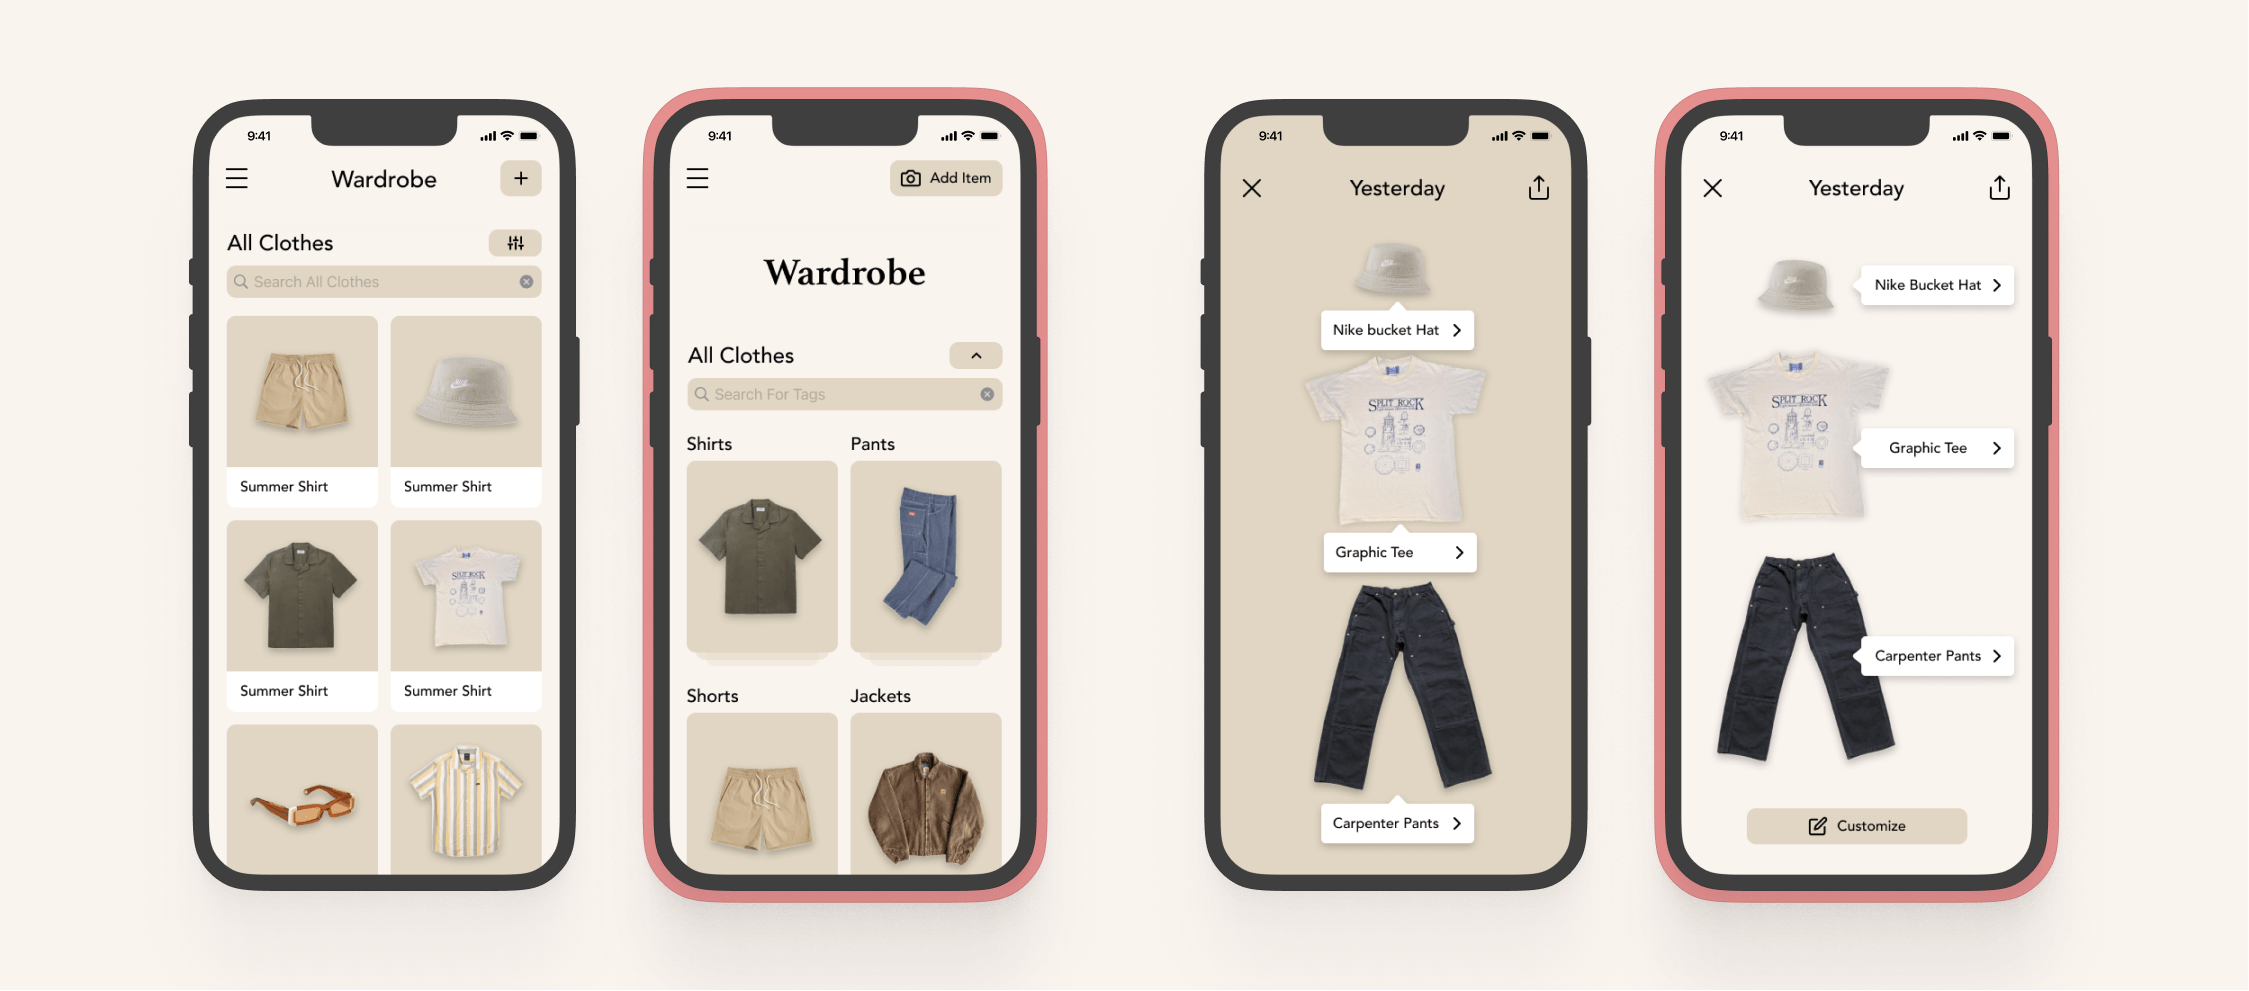
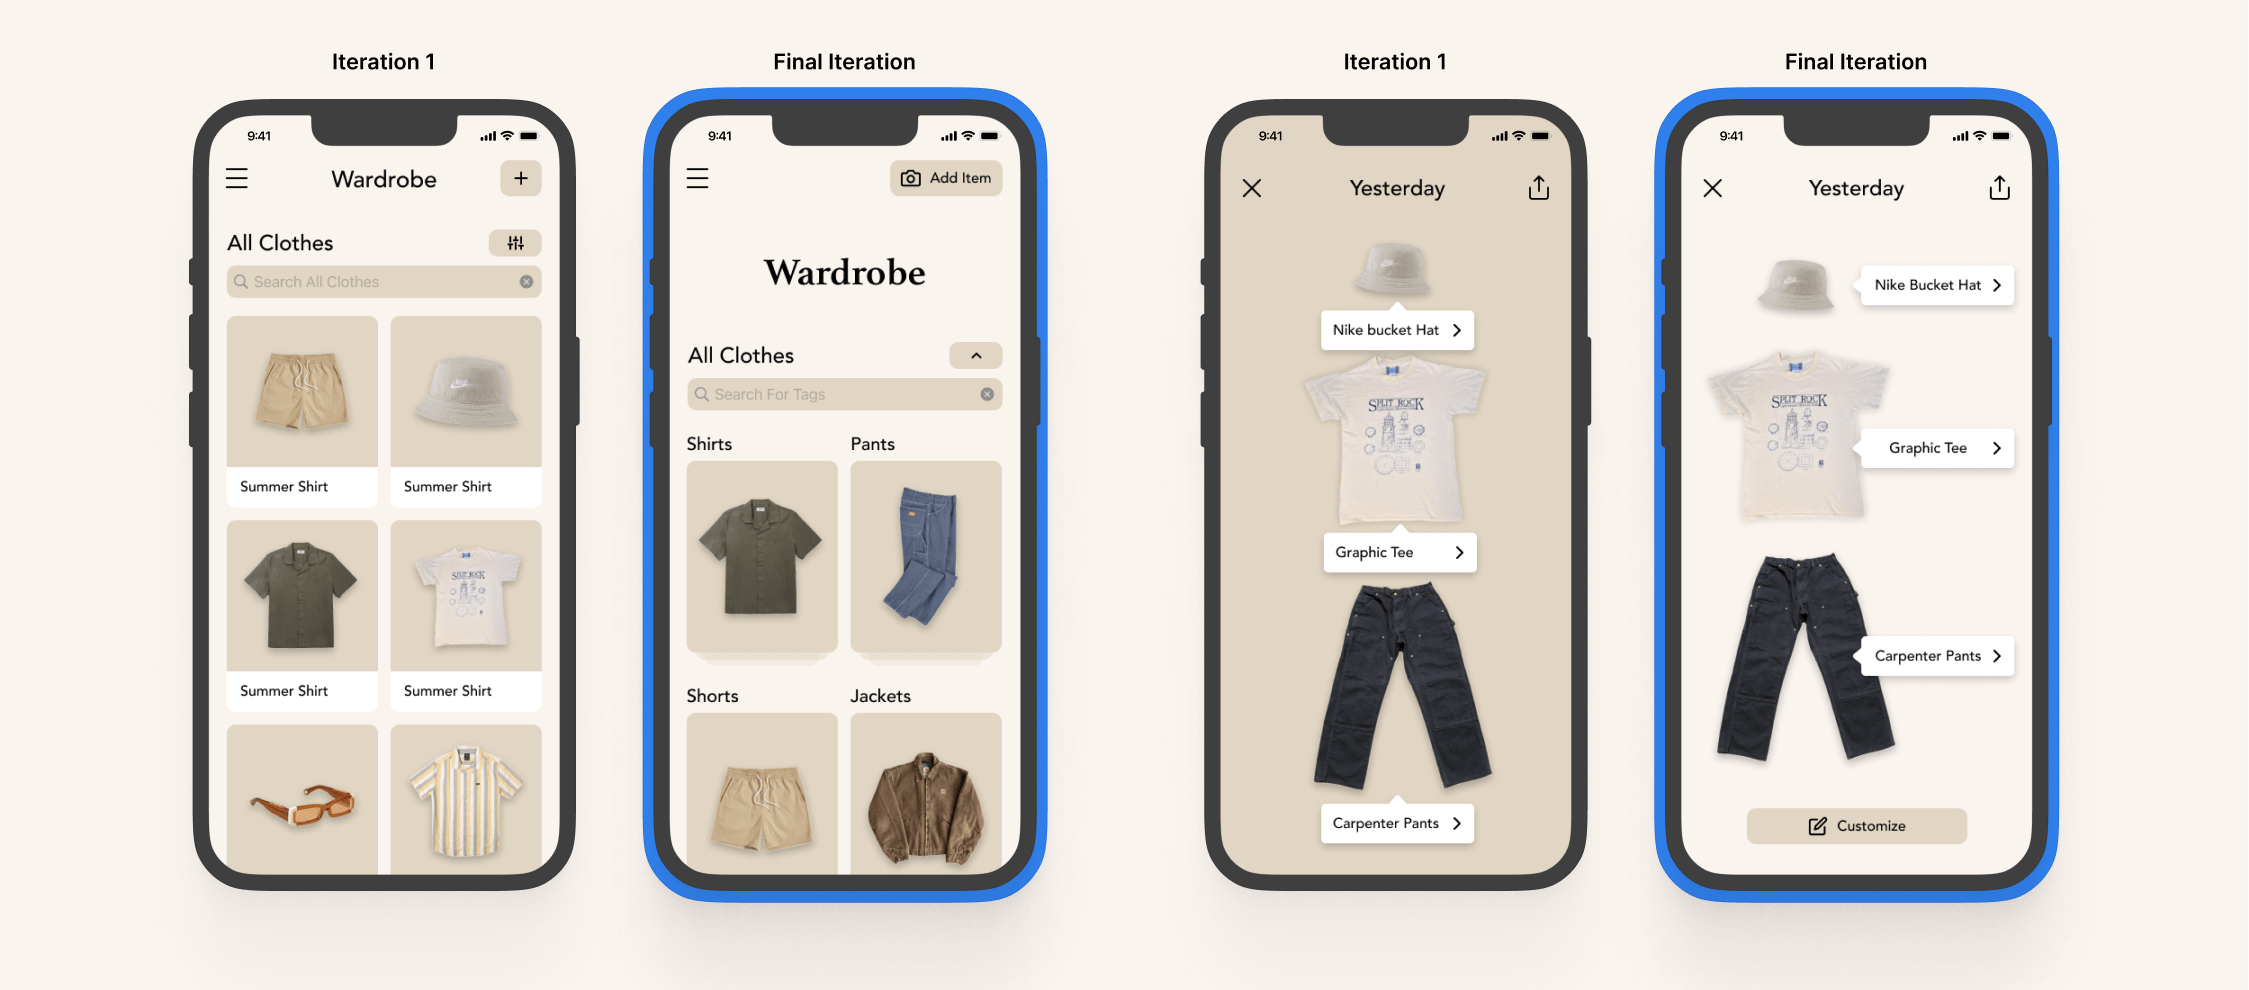
Tailored Improvements
Switched images to webp
improved iterations section

diff --git a/tailored.html b/tailored.html
@@ -19,8 +19,8 @@
       </div>
       <div id="project-content">
         <picture>
-          <source media="(min-width:700px)" srcset="assets/taylored/banner.png">
-          <img id="project-headerpicture" src="assets/taylored/banner.png" alt="">
+          <source media="(min-width:700px)" srcset="assets/taylored/banner.webp">
+          <img id="project-headerpicture" src="assets/taylored/banner.webp" alt="">
         </picture>
         <div id="project-header">Tailored</div>
         <div id="project-type">App Design</div>
@@ -35,8 +35,8 @@
         <div class="project-section">
           <div class="project-section-header">Brainstorming</div>
           <picture>
-            <source media="(min-width:700px)" srcset="assets/taylored/TailoredSketches.png">
-            <img class="project-sectionpicture" src="assets/taylored/TailoredSketches.png" alt="">
+            <source media="(min-width:700px)" srcset="assets/taylored/TailoredSketches.webp">
+            <img class="project-sectionpicture" src="assets/taylored/TailoredSketches.webp" alt="">
           </picture>
         </div>
         <div class="project-section beigeback">
@@ -49,28 +49,29 @@
         <div class="project-section">
           <div class="project-section-header">Design Iterations</div>
           <div class="project-subsection">
+            <div class="project-section-description" style="margin-bottom: 60px; margin-top: -30px;">I went through two iterations of user testing but having a handful of people run through a basic figma prototype of the application. This allowed me to gather great feedback on the usability and flow of the different sections and greatly improve their functionality.</div>
             <div class="project-section-subheader topsubheader">Daily Fit</div>
             <picture>
-              <source media="(min-width:700px)" srcset="assets/taylored/home_iterate.png">
-              <img class="project-sectionpicture" src="assets/taylored/home_iterate.png" alt="">
+              <source media="(min-width:700px)" srcset="assets/taylored/home_iterate.webp">
+              <img class="project-sectionpicture" src="assets/taylored/home_iterate.webp" alt="">
             </picture>
-            <div class="project-section-description">When first designing the Today Page, the daily outfit was directly incorporated and editable from that main page. This felt very cluttered and made the Today Page feel less concrete. I decided to make it a separate page that you could easily pop into from the main page but it now had the feeling of being very bare-bones with a lot of lacking features. Since this was the "Daily Fit" that would be recommended by the app, the general user would most likely want to heavily customize it. I settled on a page where that made it super easy to add and remove items as well as easily access the items already added. I also made it easy to share the daily fit and see when it's published since the app revolves around the idea of "share what you wear" on that specific day.</div>
+            <div class="project-section-description">When first designing the Today Page, the daily outfit was directly incorporated and editable from that main page. Users felt that this home page was very cluttered and distracted from the social component, where you could view your friends' fits for that day underneath. I decided to make it a separate page that you could easily pop into from the main page. In the second round of testing, users liked the separation and having a separate area to edit the outfit but with it being a whole separate page, now felt like it could include more features. Since this was the "Daily Fit'' that would be recommended by the app, the general user would most likely want to heavily customize it. I therefore settled on a page where that made it super easy to add and remove items as well as easily identify and access the items already added. I also made it easy to share the daily fit and see when it's published since the app revolves around the idea of "share what you wear" on that specific day.</div>
           </div>
           <div class="project-subsection">
             <div class="project-section-subheader">Figuring Out Categories</div>
             <picture>
-              <source media="(min-width:700px)" srcset="assets/taylored/fit_iterate.png">
-              <img class="project-sectionpicture" src="assets/taylored/fit_iterate.png" alt="">
+              <source media="(min-width:700px)" srcset="assets/taylored/fit_iterate.webp">
+              <img class="project-sectionpicture" src="assets/taylored/fit_iterate.webp" alt="">
             </picture>
-            <div class="project-section-description">The Fits Page needed to catalog and sort all of the outfits users wanted to create. I started out by having all the user-created categories in a grid and I placed the category name above to allow users to differentiate between the categories and the actual clothing items (which you'll see down below). I still needed a way to differentiate them more so I added a cascading effect to the background to make it clear it's a grouping of many different things. The Public Fits category needed to be emphasized since it isn't just another basic category and the fits in there are public. I decided to highlight that category since it acts as the user's "profile" and have it occupy the two columns and emphasize that the other categories were private.</div>
+            <div class="project-section-description">The Fits Page needed to catalog and sort all of the outfits users wanted to create. I started out by having all the user-created categories in a grid and I placed the category name above to allow users to differentiate between the categories and the actual clothing items (which you'll see down below). Users felt like there needed to be a way to differentiate them more so I added a cascading effect to the background to make it clear it's a grouping of many different things. There was some confusion around the "Public Fits" category vs. the others and so I decided to emphasize it since it isn't just another basic category because it groups all the outfits that are public. I decided to highlight that category since it acts as the user's "profile" for their outfits.</div>
           </div>
           <div class="project-subsection">
             <div class="project-section-subheader">Wardrobe Iterations</div>
             <picture>
-              <source media="(min-width:700px)" srcset="assets/taylored/wardrobe_iterate.png">
-              <img class="project-sectionpicture" src="assets/taylored/wardrobe_iterate.png" alt="">
+              <source media="(min-width:700px)" srcset="assets/taylored/wardrobe_iterate.webp">
+              <img class="project-sectionpicture" src="assets/taylored/wardrobe_iterate.webp" alt="">
             </picture>
-            <div class="project-section-description">The original Wardrobe Page was just a huge grouping of all the clothing items and was mainly there as the page to add new items. I wanted to make the page into something that users would actually enjoy browsing and so I switched to using clothing categories inspired by the Fits Page but these categories would be basic and just help with finding specific items. I also modified the "enlarged fits page" to align with the look of the "Daily Fit".</div>
+            <div class="project-section-description">The original Wardrobe Page was just a huge grouping of all the clothing items and was mainly there as the page to add new items. The feedback that I received was that it would be unpleasant to browse through when there were lots of clothes and it would be hard to find individual items that they were looking for. I wanted to make the page into something that users would actually enjoy browsing and so I switched to using clothing categories inspired by the Fits Page but these categories would be basic and just help with finding specific items. I also modified the "enlarged fits page" to align with the look of the "Daily Fit".</div>
           </div>
         </div>
         <div class="project-section beigeback">
@@ -78,32 +79,32 @@
           <div class="project-subsection">
             <div class="project-section-subheader topsubheader">App Engagement</div>
             <picture>
-              <source media="(min-width:700px)" srcset="assets/taylored/home.png">
-              <img class="project-sectionpicture" src="assets/taylored/home.png" alt="">
+              <source media="(min-width:700px)" srcset="assets/taylored/home.webp">
+              <img class="project-sectionpicture" src="assets/taylored/home.webp" alt="">
             </picture>
             <picture>
-              <source media="(min-width:700px)" srcset="assets/taylored/friends.png">
-              <img class="project-sectionpicture" src="assets/taylored/friends.png" alt="">
+              <source media="(min-width:700px)" srcset="assets/taylored/friends.webp">
+              <img class="project-sectionpicture" src="assets/taylored/friends.webp" alt="">
             </picture>
             <div class="project-section-description">The app is centered around people's daily outfits. Each day users would return to the app to find a new suggested outfit for the day that they can then modify and work off of. By scrolling down they can see all the fits that their friends have published for the day.</div>
           </div>
           <div class="project-subsection">
             <div class="project-section-subheader">Wardrobe</div>
             <picture>
-              <source media="(min-width:700px)" srcset="assets/taylored/wardrobe.png">
-              <img class="project-sectionpicture" src="assets/taylored/wardrobe.png" alt="">
+              <source media="(min-width:700px)" srcset="assets/taylored/wardrobe.webp">
+              <img class="project-sectionpicture" src="assets/taylored/wardrobe.webp" alt="">
             </picture>
             <picture>
-              <source media="(min-width:700px)" srcset="assets/taylored/upload.png">
-              <img class="project-sectionpicture" src="assets/taylored/upload.png" alt="">
+              <source media="(min-width:700px)" srcset="assets/taylored/upload.webp">
+              <img class="project-sectionpicture" src="assets/taylored/upload.webp" alt="">
             </picture>
             <div class="project-section-description">I wanted to make sure it was easy for users to add their clothes to the app. They can just take a photo of the item on the floor and the app automatically removes the background and tries to detect certain attributes about the item like the type and color. Users can browse through their clothes which are sorted by type and the when they click on a certain item they can see other similar items in their wardrobe or items that might go well with it.</div>
           </div>
           <div class="project-subsection">
             <div class="project-section-subheader">Outfits</div>
             <picture>
-              <source media="(min-width:700px)" srcset="assets/taylored/customize.png">
-              <img class="project-sectionpicture" src="assets/taylored/customize.png" alt="">
+              <source media="(min-width:700px)" srcset="assets/taylored/customize.webp">
+              <img class="project-sectionpicture" src="assets/taylored/customize.webp" alt="">
             </picture>
             <div class="project-section-description">In addition to creating daily fits, users can create more outfits and sort them in categories that they can then go back to in the future. While the app recommends publishing the daily outfit users can choose to publish the other fits they make as well as categories that they've created.</div>
           </div>
